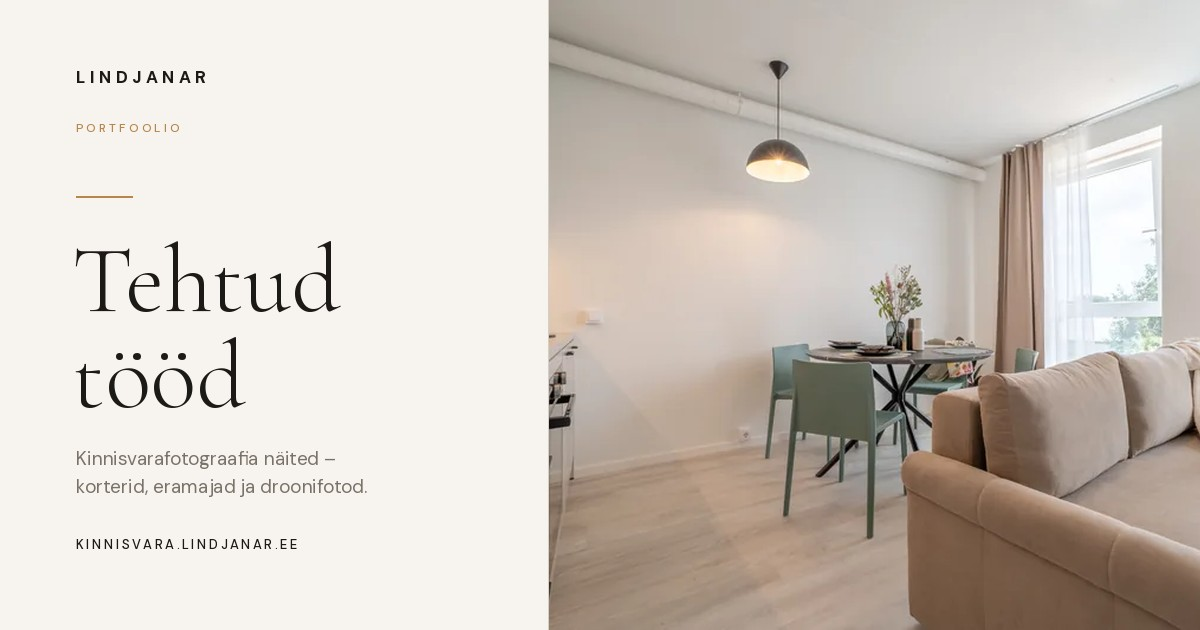
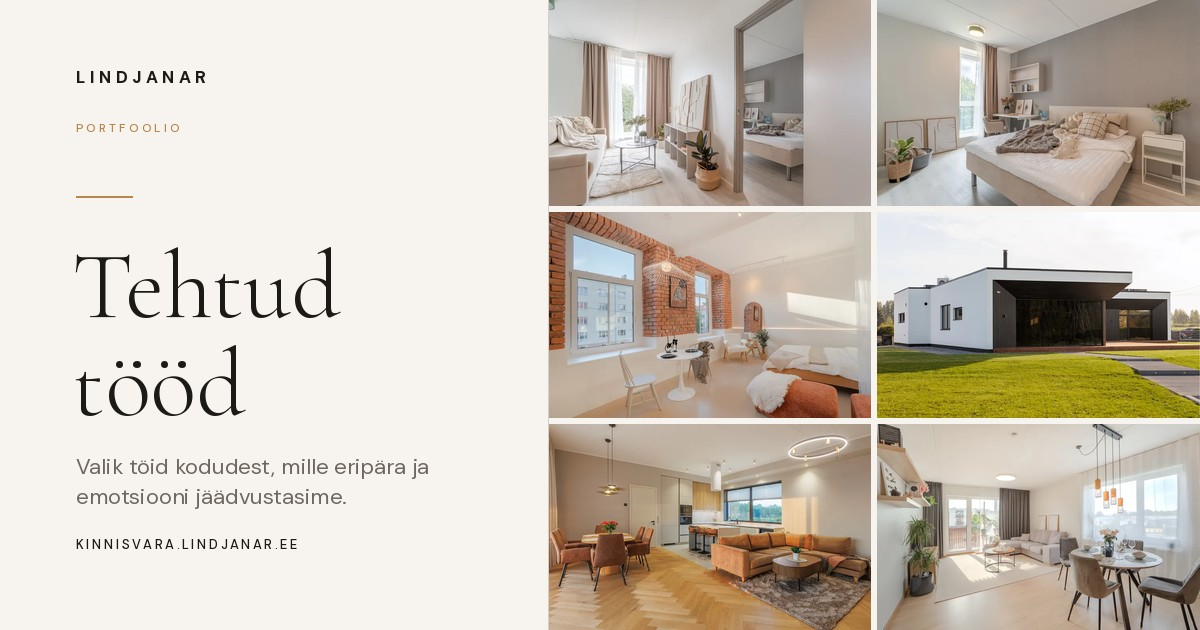
Roll branded share cards out to every page
- Same card template on the homepage, KKK, blog index and all nine
  region pages. Until now all twelve shared hero.jpg, so every link
  looked identical no matter what was being shared.
- Tehtud tood card now carries a 2x3 mosaic of six shoots instead of
  one photo; the generator takes either.
- Subtext font up from 19px to 22px so it stays readable at the size
  LinkedIn and Facebook render feed previews.
- Title auto-fits and the subtext is anchored, so a three-line title
  can no longer collide with the domain line.
- Fill in the missing twitter:image/title/description on the blog
  article, and og:image:alt across the board.

Titles and subtext come from each page's own h1 and og:description.

diff --git a/index.html b/index.html
@@ -13,9 +13,17 @@
 <meta property="og:title" content="Kinnisvarafotograafia üle Eesti – hinnad alates 85€ | LINDJANAR" />
 <meta property="og:description" content="Professionaalsed kinnisvarafotod 48 tunniga. Avalikud hinnad, droonifotod, virtuaalne staging. Baas Tartus, teenindame üle Eesti." />
 <meta property="og:url" content="https://kinnisvara.lindjanar.ee/" />
-<meta property="og:image" content="https://kinnisvara.lindjanar.ee/assets/hero/hero.jpg" />
+<meta property="og:image" content="https://kinnisvara.lindjanar.ee/assets/og/avaleht.jpg" />
+<meta property="og:image:type" content="image/jpeg" />
+<meta property="og:image:width" content="1200" />
+<meta property="og:image:height" content="630" />
+<meta property="og:image:alt" content="Kinnisvarafotograafia üle Eesti – hinnad alates 85€ – LINDJANAR" />
+<meta property="og:site_name" content="LINDJANAR" />
 <meta property="og:locale" content="et_EE" />
 <meta name="twitter:card" content="summary_large_image" />
+<meta name="twitter:image" content="https://kinnisvara.lindjanar.ee/assets/og/avaleht.jpg" />
+<meta name="twitter:description" content="Professionaalsed kinnisvarafotod 48 tunniga. Avalikud hinnad, droonifotod, virtuaalne staging. Baas Tartus, teenindame üle Eesti." />
+<meta name="twitter:title" content="Kinnisvarafotograafia üle Eesti – hinnad alates 85€ | LINDJANAR" />
 
 <!-- Structured data: the business, the photographer, and the current price list.
      NB: keep prices in sync with the pricing cards when they change. -->

diff --git a/kinnisvara-pildistamine-tallinnas.html b/kinnisvara-pildistamine-tallinnas.html
@@ -12,8 +12,17 @@
 <meta property="og:title" content="Kinnisvara pildistamine Tallinnas – premium täispakett" />
 <meta property="og:description" content="Täispakett alates 600€: koristus, staging, fotograafia, droon ja video ühes tellimuses. Eramaja Premium fotopakett 329€. Transport Tallinnasse hinna sees." />
 <meta property="og:url" content="https://kinnisvara.lindjanar.ee/kinnisvara-pildistamine-tallinnas.html" />
-<meta property="og:image" content="https://kinnisvara.lindjanar.ee/assets/eramajad/eramajad.jpg" />
+<meta property="og:image" content="https://kinnisvara.lindjanar.ee/assets/og/tallinnas.jpg" />
+<meta property="og:image:type" content="image/jpeg" />
+<meta property="og:image:width" content="1200" />
+<meta property="og:image:height" content="630" />
+<meta property="og:image:alt" content="Kinnisvara pildistamine Tallinnas – premium täispakett – LINDJANAR" />
+<meta property="og:site_name" content="LINDJANAR" />
 <meta property="og:locale" content="et_EE" />
+<meta name="twitter:card" content="summary_large_image" />
+<meta name="twitter:image" content="https://kinnisvara.lindjanar.ee/assets/og/tallinnas.jpg" />
+<meta name="twitter:description" content="Täispakett alates 600€: koristus, staging, fotograafia, droon ja video ühes tellimuses. Eramaja Premium fotopakett 329€. Transport Tallinnasse hinna sees." />
+<meta name="twitter:title" content="Kinnisvara pildistamine Tallinnas – premium täispakett" />
 
 <script type="application/ld+json">
 {

diff --git a/kinnisvara-pildistamine-valgamaa.html b/kinnisvara-pildistamine-valgamaa.html
@@ -12,8 +12,17 @@
 <meta property="og:title" content="Kinnisvara pildistamine Valgas, Otepääl ja Valgamaal | LINDJANAR" />
 <meta property="og:description" content="Kinnisvara pildistamine Valgas, Otepääl ja Valgamaal. Korterid alates 85€, eramajad alates 109€, pildid käes 48 tunniga." />
 <meta property="og:url" content="https://kinnisvara.lindjanar.ee/kinnisvara-pildistamine-valgamaa.html" />
-<meta property="og:image" content="https://kinnisvara.lindjanar.ee/assets/hero/hero.jpg" />
+<meta property="og:image" content="https://kinnisvara.lindjanar.ee/assets/og/valgamaa.jpg" />
+<meta property="og:image:type" content="image/jpeg" />
+<meta property="og:image:width" content="1200" />
+<meta property="og:image:height" content="630" />
+<meta property="og:image:alt" content="Kinnisvara pildistamine Valgas, Otepääl ja Valgamaal – LINDJANAR" />
+<meta property="og:site_name" content="LINDJANAR" />
 <meta property="og:locale" content="et_EE" />
+<meta name="twitter:card" content="summary_large_image" />
+<meta name="twitter:image" content="https://kinnisvara.lindjanar.ee/assets/og/valgamaa.jpg" />
+<meta name="twitter:description" content="Kinnisvara pildistamine Valgas, Otepääl ja Valgamaal. Korterid alates 85€, eramajad alates 109€, pildid käes 48 tunniga." />
+<meta name="twitter:title" content="Kinnisvara pildistamine Valgas, Otepääl ja Valgamaal | LINDJANAR" />
 
 <script type="application/ld+json">
 {

diff --git a/kinnisvara-pildistamine-viljandimaa.html b/kinnisvara-pildistamine-viljandimaa.html
@@ -12,8 +12,17 @@
 <meta property="og:title" content="Kinnisvara pildistamine Viljandis ja Viljandimaal | LINDJANAR" />
 <meta property="og:description" content="Kinnisvara pildistamine Viljandis ja Viljandimaal. Korterid alates 85€, eramajad alates 109€, pildid käes 48 tunniga." />
 <meta property="og:url" content="https://kinnisvara.lindjanar.ee/kinnisvara-pildistamine-viljandimaa.html" />
-<meta property="og:image" content="https://kinnisvara.lindjanar.ee/assets/hero/hero.jpg" />
+<meta property="og:image" content="https://kinnisvara.lindjanar.ee/assets/og/viljandimaa.jpg" />
+<meta property="og:image:type" content="image/jpeg" />
+<meta property="og:image:width" content="1200" />
+<meta property="og:image:height" content="630" />
+<meta property="og:image:alt" content="Kinnisvara pildistamine Viljandis ja Viljandimaal – LINDJANAR" />
+<meta property="og:site_name" content="LINDJANAR" />
 <meta property="og:locale" content="et_EE" />
+<meta name="twitter:card" content="summary_large_image" />
+<meta name="twitter:image" content="https://kinnisvara.lindjanar.ee/assets/og/viljandimaa.jpg" />
+<meta name="twitter:description" content="Kinnisvara pildistamine Viljandis ja Viljandimaal. Korterid alates 85€, eramajad alates 109€, pildid käes 48 tunniga." />
+<meta name="twitter:title" content="Kinnisvara pildistamine Viljandis ja Viljandimaal | LINDJANAR" />
 
 <script type="application/ld+json">
 {

diff --git a/kinnisvara-pildistamine-jogevamaa.html b/kinnisvara-pildistamine-jogevamaa.html
@@ -12,8 +12,17 @@
 <meta property="og:title" content="Kinnisvara pildistamine Jõgeval ja Jõgevamaal | LINDJANAR" />
 <meta property="og:description" content="Kinnisvara pildistamine Jõgeval ja Jõgevamaal. Korterid alates 85€, eramajad alates 109€, pildid käes 48 tunniga." />
 <meta property="og:url" content="https://kinnisvara.lindjanar.ee/kinnisvara-pildistamine-jogevamaa.html" />
-<meta property="og:image" content="https://kinnisvara.lindjanar.ee/assets/hero/hero.jpg" />
+<meta property="og:image" content="https://kinnisvara.lindjanar.ee/assets/og/jogevamaa.jpg" />
+<meta property="og:image:type" content="image/jpeg" />
+<meta property="og:image:width" content="1200" />
+<meta property="og:image:height" content="630" />
+<meta property="og:image:alt" content="Kinnisvara pildistamine Jõgeval ja Jõgevamaal – LINDJANAR" />
+<meta property="og:site_name" content="LINDJANAR" />
 <meta property="og:locale" content="et_EE" />
+<meta name="twitter:card" content="summary_large_image" />
+<meta name="twitter:image" content="https://kinnisvara.lindjanar.ee/assets/og/jogevamaa.jpg" />
+<meta name="twitter:description" content="Kinnisvara pildistamine Jõgeval ja Jõgevamaal. Korterid alates 85€, eramajad alates 109€, pildid käes 48 tunniga." />
+<meta name="twitter:title" content="Kinnisvara pildistamine Jõgeval ja Jõgevamaal | LINDJANAR" />
 
 <script type="application/ld+json">
 {

diff --git a/kinnisvara-pildistamine-parnumaa.html b/kinnisvara-pildistamine-parnumaa.html
@@ -12,8 +12,17 @@
 <meta property="og:title" content="Kinnisvara pildistamine Pärnus ja Pärnumaal | LINDJANAR" />
 <meta property="og:description" content="Kinnisvara pildistamine Pärnus ja Pärnumaal. Korterid alates 85€, eramajad alates 109€, pildid käes 48 tunniga." />
 <meta property="og:url" content="https://kinnisvara.lindjanar.ee/kinnisvara-pildistamine-parnumaa.html" />
-<meta property="og:image" content="https://kinnisvara.lindjanar.ee/assets/hero/hero.jpg" />
+<meta property="og:image" content="https://kinnisvara.lindjanar.ee/assets/og/parnumaa.jpg" />
+<meta property="og:image:type" content="image/jpeg" />
+<meta property="og:image:width" content="1200" />
+<meta property="og:image:height" content="630" />
+<meta property="og:image:alt" content="Kinnisvara pildistamine Pärnus ja Pärnumaal – LINDJANAR" />
+<meta property="og:site_name" content="LINDJANAR" />
 <meta property="og:locale" content="et_EE" />
+<meta name="twitter:card" content="summary_large_image" />
+<meta name="twitter:image" content="https://kinnisvara.lindjanar.ee/assets/og/parnumaa.jpg" />
+<meta name="twitter:description" content="Kinnisvara pildistamine Pärnus ja Pärnumaal. Korterid alates 85€, eramajad alates 109€, pildid käes 48 tunniga." />
+<meta name="twitter:title" content="Kinnisvara pildistamine Pärnus ja Pärnumaal | LINDJANAR" />
 
 <script type="application/ld+json">
 {

diff --git a/kinnisvara-pildistamine-polvamaa.html b/kinnisvara-pildistamine-polvamaa.html
@@ -12,8 +12,17 @@
 <meta property="og:title" content="Kinnisvara pildistamine Põlvas ja Põlvamaal | LINDJANAR" />
 <meta property="og:description" content="Kinnisvara pildistamine Põlvas ja Põlvamaal. Korterid alates 85€, eramajad alates 109€, pildid käes 48 tunniga." />
 <meta property="og:url" content="https://kinnisvara.lindjanar.ee/kinnisvara-pildistamine-polvamaa.html" />
-<meta property="og:image" content="https://kinnisvara.lindjanar.ee/assets/hero/hero.jpg" />
+<meta property="og:image" content="https://kinnisvara.lindjanar.ee/assets/og/polvamaa.jpg" />
+<meta property="og:image:type" content="image/jpeg" />
+<meta property="og:image:width" content="1200" />
+<meta property="og:image:height" content="630" />
+<meta property="og:image:alt" content="Kinnisvara pildistamine Põlvas ja Põlvamaal – LINDJANAR" />
+<meta property="og:site_name" content="LINDJANAR" />
 <meta property="og:locale" content="et_EE" />
+<meta name="twitter:card" content="summary_large_image" />
+<meta name="twitter:image" content="https://kinnisvara.lindjanar.ee/assets/og/polvamaa.jpg" />
+<meta name="twitter:description" content="Kinnisvara pildistamine Põlvas ja Põlvamaal. Korterid alates 85€, eramajad alates 109€, pildid käes 48 tunniga." />
+<meta name="twitter:title" content="Kinnisvara pildistamine Põlvas ja Põlvamaal | LINDJANAR" />
 
 <script type="application/ld+json">
 {

diff --git a/kinnisvara-pildistamine-jarvamaa.html b/kinnisvara-pildistamine-jarvamaa.html
@@ -12,8 +12,17 @@
 <meta property="og:title" content="Kinnisvara pildistamine Paides ja Järvamaal | LINDJANAR" />
 <meta property="og:description" content="Kinnisvara pildistamine Paides ja Järvamaal. Korterid alates 85€, eramajad alates 109€, pildid käes 48 tunniga." />
 <meta property="og:url" content="https://kinnisvara.lindjanar.ee/kinnisvara-pildistamine-jarvamaa.html" />
-<meta property="og:image" content="https://kinnisvara.lindjanar.ee/assets/hero/hero.jpg" />
+<meta property="og:image" content="https://kinnisvara.lindjanar.ee/assets/og/jarvamaa.jpg" />
+<meta property="og:image:type" content="image/jpeg" />
+<meta property="og:image:width" content="1200" />
+<meta property="og:image:height" content="630" />
+<meta property="og:image:alt" content="Kinnisvara pildistamine Paides ja Järvamaal – LINDJANAR" />
+<meta property="og:site_name" content="LINDJANAR" />
 <meta property="og:locale" content="et_EE" />
+<meta name="twitter:card" content="summary_large_image" />
+<meta name="twitter:image" content="https://kinnisvara.lindjanar.ee/assets/og/jarvamaa.jpg" />
+<meta name="twitter:description" content="Kinnisvara pildistamine Paides ja Järvamaal. Korterid alates 85€, eramajad alates 109€, pildid käes 48 tunniga." />
+<meta name="twitter:title" content="Kinnisvara pildistamine Paides ja Järvamaal | LINDJANAR" />
 
 <script type="application/ld+json">
 {

diff --git a/kkk.html b/kkk.html
@@ -12,8 +12,17 @@
 <meta property="og:title" content="Korduma kippuvad küsimused – kinnisvara pildistamine | LINDJANAR" />
 <meta property="og:description" content="Vastused levinuimatele küsimustele: hinnad, tähtajad, ettevalmistus, droonifotod, virtuaalne staging ja broneerimine." />
 <meta property="og:url" content="https://kinnisvara.lindjanar.ee/kkk.html" />
-<meta property="og:image" content="https://kinnisvara.lindjanar.ee/assets/hero/hero.jpg" />
+<meta property="og:image" content="https://kinnisvara.lindjanar.ee/assets/og/kkk.jpg" />
+<meta property="og:image:type" content="image/jpeg" />
+<meta property="og:image:width" content="1200" />
+<meta property="og:image:height" content="630" />
+<meta property="og:image:alt" content="Korduma kippuvad küsimused – kinnisvara pildistamine – LINDJANAR" />
+<meta property="og:site_name" content="LINDJANAR" />
 <meta property="og:locale" content="et_EE" />
+<meta name="twitter:card" content="summary_large_image" />
+<meta name="twitter:image" content="https://kinnisvara.lindjanar.ee/assets/og/kkk.jpg" />
+<meta name="twitter:description" content="Vastused levinuimatele küsimustele: hinnad, tähtajad, ettevalmistus, droonifotod, virtuaalne staging ja broneerimine." />
+<meta name="twitter:title" content="Korduma kippuvad küsimused – kinnisvara pildistamine | LINDJANAR" />
 
 <script type="application/ld+json">
 {

diff --git a/kinnisvara-pildistamine-vorumaa.html b/kinnisvara-pildistamine-vorumaa.html
@@ -12,8 +12,17 @@
 <meta property="og:title" content="Kinnisvara pildistamine Võrus ja Võrumaal | LINDJANAR" />
 <meta property="og:description" content="Kinnisvara pildistamine Võrus ja Võrumaal. Korterid alates 85€, eramajad alates 109€, pildid käes 48 tunniga." />
 <meta property="og:url" content="https://kinnisvara.lindjanar.ee/kinnisvara-pildistamine-vorumaa.html" />
-<meta property="og:image" content="https://kinnisvara.lindjanar.ee/assets/hero/hero.jpg" />
+<meta property="og:image" content="https://kinnisvara.lindjanar.ee/assets/og/vorumaa.jpg" />
+<meta property="og:image:type" content="image/jpeg" />
+<meta property="og:image:width" content="1200" />
+<meta property="og:image:height" content="630" />
+<meta property="og:image:alt" content="Kinnisvara pildistamine Võrus ja Võrumaal – LINDJANAR" />
+<meta property="og:site_name" content="LINDJANAR" />
 <meta property="og:locale" content="et_EE" />
+<meta name="twitter:card" content="summary_large_image" />
+<meta name="twitter:image" content="https://kinnisvara.lindjanar.ee/assets/og/vorumaa.jpg" />
+<meta name="twitter:description" content="Kinnisvara pildistamine Võrus ja Võrumaal. Korterid alates 85€, eramajad alates 109€, pildid käes 48 tunniga." />
+<meta name="twitter:title" content="Kinnisvara pildistamine Võrus ja Võrumaal | LINDJANAR" />
 
 <script type="application/ld+json">
 {

diff --git a/kinnisvara-pildistamine-tartumaa.html b/kinnisvara-pildistamine-tartumaa.html
@@ -12,8 +12,17 @@
 <meta property="og:title" content="Kinnisvara pildistamine Tartus ja Tartumaal | LINDJANAR" />
 <meta property="og:description" content="Korterid alates 85€, eramajad alates 109€, pildid käes 48 tunniga. Droonifotod ja virtuaalne staging." />
 <meta property="og:url" content="https://kinnisvara.lindjanar.ee/kinnisvara-pildistamine-tartumaa.html" />
-<meta property="og:image" content="https://kinnisvara.lindjanar.ee/assets/hero/hero.jpg" />
+<meta property="og:image" content="https://kinnisvara.lindjanar.ee/assets/og/tartumaa.jpg" />
+<meta property="og:image:type" content="image/jpeg" />
+<meta property="og:image:width" content="1200" />
+<meta property="og:image:height" content="630" />
+<meta property="og:image:alt" content="Kinnisvara pildistamine Tartus ja Tartumaal – LINDJANAR" />
+<meta property="og:site_name" content="LINDJANAR" />
 <meta property="og:locale" content="et_EE" />
+<meta name="twitter:card" content="summary_large_image" />
+<meta name="twitter:image" content="https://kinnisvara.lindjanar.ee/assets/og/tartumaa.jpg" />
+<meta name="twitter:description" content="Korterid alates 85€, eramajad alates 109€, pildid käes 48 tunniga. Droonifotod ja virtuaalne staging." />
+<meta name="twitter:title" content="Kinnisvara pildistamine Tartus ja Tartumaal | LINDJANAR" />
 
 <script type="application/ld+json">
 {

diff --git a/blogi/index.html b/blogi/index.html
@@ -12,9 +12,17 @@
 <meta property="og:title" content="Blogi – kinnisvarafotograafiast ausalt | LINDJANAR" />
 <meta property="og:description" content="Artiklid kinnisvarafotograafiast: miks professionaalsed fotod müüvad kiiremini ja kuidas kuulutus portaalis tööle panna." />
 <meta property="og:url" content="https://kinnisvara.lindjanar.ee/blogi/" />
-<meta property="og:image" content="https://kinnisvara.lindjanar.ee/assets/hero/hero.jpg" />
+<meta property="og:image" content="https://kinnisvara.lindjanar.ee/assets/og/blogi.jpg" />
+<meta property="og:image:type" content="image/jpeg" />
+<meta property="og:image:width" content="1200" />
+<meta property="og:image:height" content="630" />
+<meta property="og:image:alt" content="Blogi – kinnisvarafotograafiast ausalt – LINDJANAR" />
+<meta property="og:site_name" content="LINDJANAR" />
 <meta property="og:locale" content="et_EE" />
 <meta name="twitter:card" content="summary_large_image" />
+<meta name="twitter:image" content="https://kinnisvara.lindjanar.ee/assets/og/blogi.jpg" />
+<meta name="twitter:description" content="Artiklid kinnisvarafotograafiast: miks professionaalsed fotod müüvad kiiremini ja kuidas kuulutus portaalis tööle panna." />
+<meta name="twitter:title" content="Blogi – kinnisvarafotograafiast ausalt | LINDJANAR" />
 
 <script type="application/ld+json">
 {
